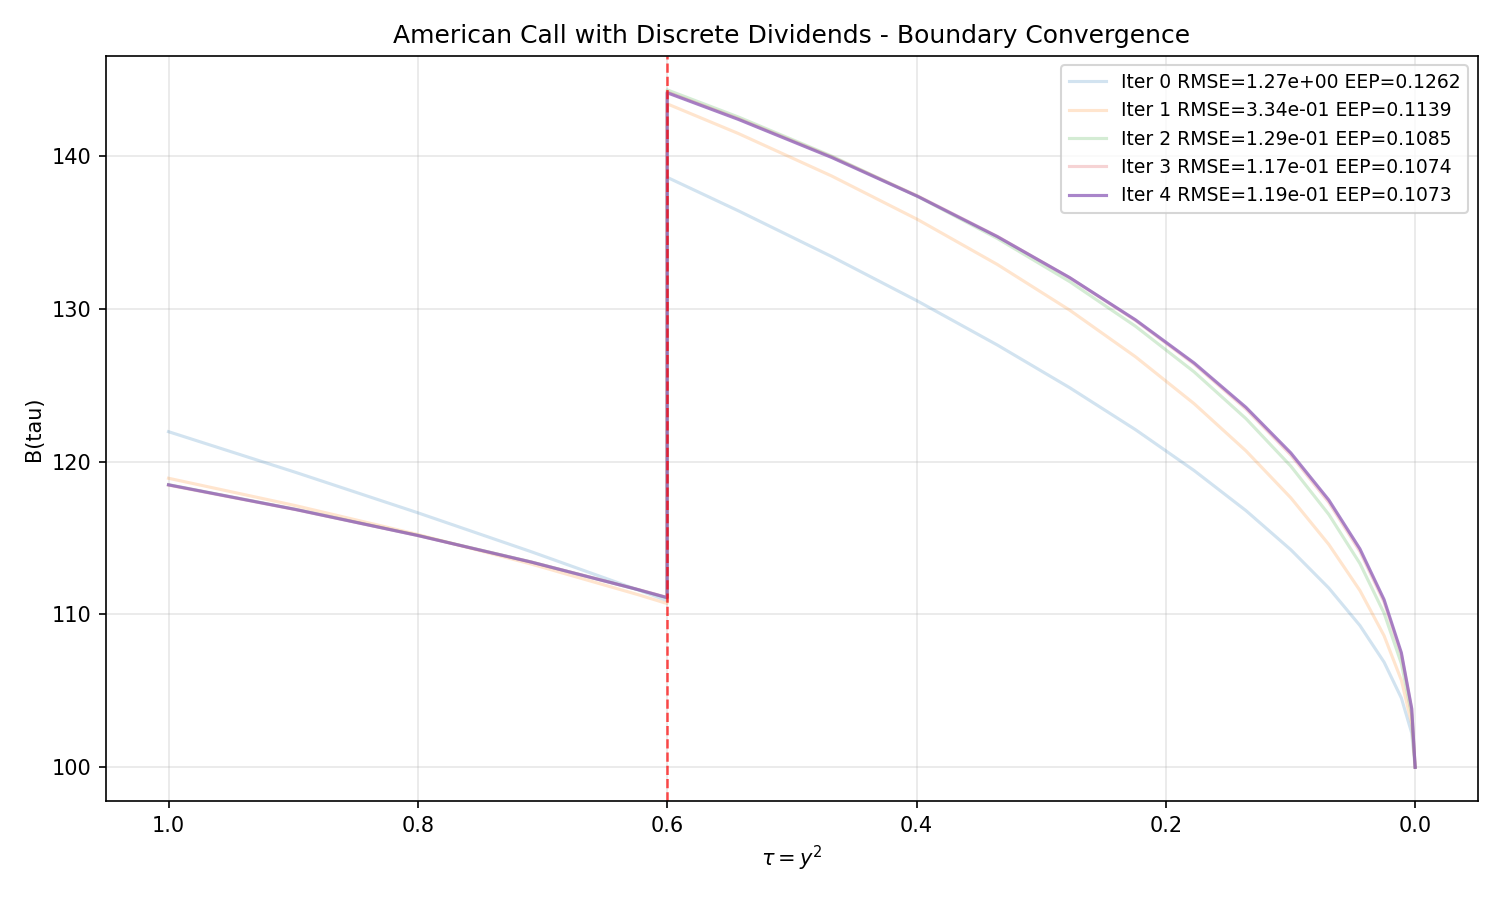
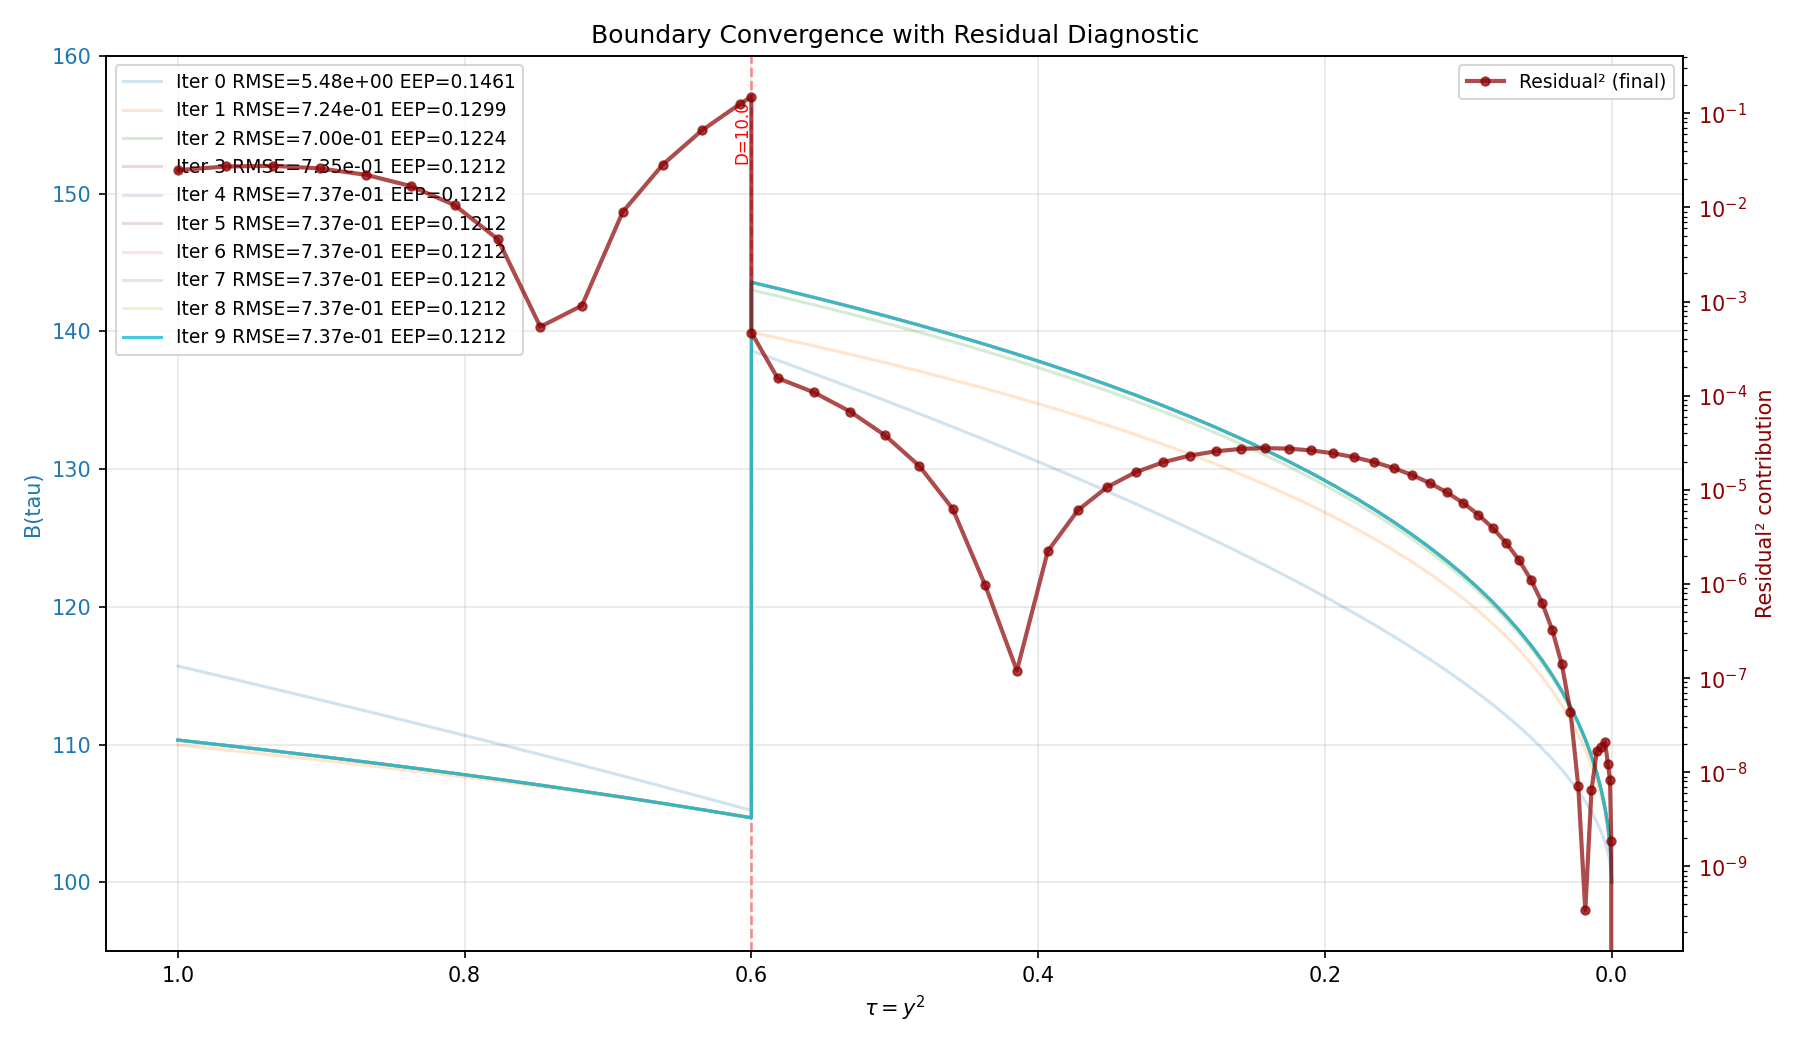
Add residual diagnostic overlay showing error concentration
New features:
- Dual-axis plot: boundary (left) + residual (right, log scale)
- Print top 10 residual contributions with locations
- Regional RMSE analysis: before vs after each dividend
- Compute residual jump ratio across dividend knots
- Suggest improvements when large post-dividend errors detected

Key findings from diagnostics:
- Residual jumps 17.9x across dividend knot
- RMSE is 37.7x worse after dividend vs before
- Top errors cluster immediately after dividends (not at expiry as initially thought)
- Supports hypothesis: need more flexible basis after dividends

Fixed bug: _last_residual_details was stale after Jacobian test.
Now recompute residuals fresh from final solved boundary for accurate diagnostics.

Suggestion printed when RMSE > 1e-3:
'Consider y*(y>y_d) terms for each dividend time y_d to allow
 boundary slope to adjust post-dividend.'

diff --git a/kim_integral_rbf.py b/kim_integral_rbf.py
@@ -785,14 +785,14 @@ if __name__ == "__main__":
     matplotlib.use("Agg")
     import matplotlib.pyplot as plt
 
-    N=20  # Finer grid to better resolve dividend transitions
-    max_iters = 5
-    n_powers = 3
+    N=60  # Finer grid to better resolve dividend transitions
+    max_iters = 10
+    n_powers = 1
     do_call = True
 
     no_divs = False
     div_times = [] if no_divs else [0.4]
-    div_amounts = [] if no_divs else [5.0]
+    div_amounts = [] if no_divs else [10.0]
     r=0.05
     q=0.05
     sigma=0.25
@@ -880,23 +880,125 @@ if __name__ == "__main__":
     print(f"  Max error  : {jac_test_div['max_error']:.6e}")
     print(f"  Mean error : {jac_test_div['mean_error']:.6e}")
 
-    # ---- Convergence plot ----
-    fig, ax = plt.subplots(1, 1, figsize=(10, 6))
+    # ---- Convergence plot with residual overlay ----
+    fig, ax1 = plt.subplots(1, 1, figsize=(12, 7))
 
+    # Plot boundary convergence on left axis
     for label, (B, rmse, eep) in res_div["history"].items():
         alpha = 0.8 if label==list(res_div["history"].keys())[-1] else 0.2
-        ax.plot(pricer_div.y ** 2, B, label=f"{label} RMSE={rmse:.2e} EEP={eep:.4f}", alpha=alpha)
+        ax1.plot(pricer_div.y ** 2, B, label=f"{label} RMSE={rmse:.2e} EEP={eep:.4f}", alpha=alpha)
 
-    # Mark dividend times
-    for t_d, D in pricer_div.div_schedule:
-        ax.axvline(pricer_div.T - t_d, color="red", ls="--", lw=1.2, alpha=0.7)
+    ax1.set_xlabel(r"$\tau = y^2$")
+    ax1.set_ylabel("B(tau)", color='C0')
+    ax1.tick_params(axis='y', labelcolor='C0')
+    ax1.set_ylim(95, 160)
+    ax1.invert_xaxis()
+    ax1.legend(loc='upper left', ncol=1, fontsize=9)
+    ax1.grid(alpha=0.3)
     
-    ax.set_title(f"American Call with Discrete Dividends - Boundary Convergence")
-    ax.set_xlabel(r"$\tau = y^2$")
-    ax.set_ylabel("B(tau)")
-    ax.invert_xaxis()
-    ax.legend(ncol=1, fontsize=9)
-    ax.grid(alpha=0.3)
+    # Compute final residual at each knot from the solved boundary
+    # Note: Must recompute because _last_residual_details may be stale after Jacobian test
+    B_final_boundary = res_div["boundary"]["B"].values
+    log_BK = np.log(B_final_boundary[1:] / pricer_div.K)
+    residual_final, _ = pricer_div.get_residual_and_jac(log_BK)
+    # Reconstruct full residual vector (including B0 which has residual=0 by construction)
+    residual_full = np.concatenate([[0.0], residual_final])
+    
+    # Also get details for plotting
+    details = pricer_div._last_residual_details
+    B_final = details['B']
+    
+    # Squared residual contribution (pointwise)
+    residual_sq = residual_full**2
+    
+    # Print diagnostic: where are the largest residuals?
+    print()
+    print("=" * 60)
+    print("Final Residual Analysis")
+    print("=" * 60)
+    top_n = 10
+    top_indices = np.argsort(residual_sq)[-top_n:][::-1]
+    print(f"Top {top_n} residual² contributions:")
+    print(f"  {'Index':<8} {'tau':<12} {'B(tau)':<12} {'|residual|':<14} {'residual²':<14}")
+    for idx in top_indices:
+        tau_val = details['tau'][idx]
+        B_val = B_final[idx]
+        res_val = residual_full[idx]
+        res_sq_val = residual_sq[idx]
+        # Check if near dividend
+        near_div = ""
+        for t_d, D in pricer_div.div_schedule:
+            if abs(tau_val - (pricer_div.T - t_d)) < 0.05:
+                near_div = f" ← near D={D} at t={t_d}"
+                break
+        print(f"  {idx:<8} {tau_val:<12.6f} {B_val:<12.4f} {abs(res_val):<14.6e} {res_sq_val:<14.6e}{near_div}")
+    
+    # Regional RMSE analysis
+    if pricer_div.div_schedule:
+        print()
+        print("Residual by region:")
+        for t_d, D in pricer_div.div_schedule:
+            tau_d = pricer_div.T - t_d
+            idx_div = np.argmin(np.abs(details['tau'] - tau_d))
+            
+            # Exclude B0 (index 0) from all analyses
+            mask_before = details['tau'][1:] < tau_d
+            mask_after = (details['tau'][1:] >= tau_d) & (details['tau'][1:] < 0.95)
+            
+            if np.any(mask_before):
+                rmse_before = np.sqrt(np.mean(residual_full[1:][mask_before]**2))
+            else:
+                rmse_before = 0
+            
+            if np.any(mask_after):
+                rmse_after = np.sqrt(np.mean(residual_full[1:][mask_after]**2))
+            else:
+                rmse_after = 0
+            
+            print(f"  Dividend D={D} at tau={tau_d:.4f}:")
+            print(f"    Before: RMSE = {rmse_before:.6e}")
+            print(f"    After:  RMSE = {rmse_after:.6e}")
+            if rmse_before > 0:
+                print(f"    Ratio:  {rmse_after/rmse_before:.1f}x worse after dividend")
+            
+            # Show jump across dividend (compare knots immediately before/after)
+            if 0 < idx_div < len(residual_full)-1:
+                res_before = abs(residual_full[idx_div])
+                res_after = abs(residual_full[idx_div+1])
+                if res_before > 1e-10:
+                    jump = res_after / res_before
+                    print(f"    |Residual| jump at knot {idx_div}→{idx_div+1}: {jump:.1f}x")
+    
+    total_rmse = np.sqrt(np.mean(residual_sq[1:]))  # Exclude B0
+    print(f"\nTotal RMSE: {total_rmse:.6e}")
+    print(f"Max |residual|: {np.max(np.abs(residual_full[1:])):.6e}")
+    
+    # Suggestion for improvement
+    if pricer_div.div_schedule and total_rmse > 1e-3:
+        print()
+        print("NOTE: Large residuals after dividends suggest adding more flexible basis:")
+        print("      Consider y*(y>y_d) terms for each dividend time y_d to allow")
+        print("      boundary slope to adjust post-dividend.")
+    print()
+    
+    # Overlay residual contribution on right axis
+    ax2 = ax1.twinx()
+    ax2.plot(pricer_div.y ** 2, residual_sq, 'o-', color='darkred', 
+             linewidth=2, markersize=4, alpha=0.7, label='Residual² (final)')
+    ax2.set_ylabel('Residual² contribution', color='darkred')
+    ax2.tick_params(axis='y', labelcolor='darkred')
+    ax2.set_yscale('log')
+    ax2.legend(loc='upper right', fontsize=9)
+    
+    # Mark dividend times on both axes
+    for t_d, D in pricer_div.div_schedule:
+        tau_d = pricer_div.T - t_d
+        ax1.axvline(tau_d, color="red", ls="--", lw=1.2, alpha=0.5, zorder=0)
+        # Annotate dividend
+        ax1.text(tau_d, ax1.get_ylim()[1]*0.98, f'D={D}', 
+                ha='right', va='top', fontsize=8, color='red', rotation=90)
+    
+    ax1.set_title(f"Boundary Convergence with Residual Diagnostic")
 
     plt.tight_layout()
     plt.savefig(f"kim_integral_rbf_convergence{'_no_divs' if no_divs else '_divs'}.png", dpi=150)

diff --git a/debug_jump.py b/debug_jump.py
@@ -1,0 +1,26 @@
+import numpy as np
+from kim_integral_rbf import KimIntegralRBF
+
+pricer = KimIntegralRBF(K=100, T=1.0, r=0.05, q=0.05, sigma=0.25, w=+1, N=60, n_powers=1,
+                        div_times=[0.4], div_amounts=[10.0])
+res = pricer.price(S0=100, max_iters=10, verbose_diagnostics=False)
+
+# Get residuals
+details = pricer._last_residual_details
+B_final = details['B']
+euro_final = details['euro_p']
+eep_final = details['eep']
+residual_full = pricer.w * (B_final - pricer.K) - (euro_final + eep_final)
+
+tau_d = 1.0 - 0.4
+idx_div = np.argmin(np.abs(details['tau'] - tau_d))
+
+print(f'tau_d = {tau_d}')
+print(f'idx_div = {idx_div}')
+print(f'tau[{idx_div}] = {details["tau"][idx_div]}')
+print(f'tau[{idx_div+1}] = {details["tau"][idx_div+1]}')
+print(f'residual_full[{idx_div}] = {residual_full[idx_div]}')
+print(f'residual_full[{idx_div+1}] = {residual_full[idx_div+1]}')
+print(f'abs(residual_full[{idx_div}]) = {abs(residual_full[idx_div])}')
+print(f'abs(residual_full[{idx_div+1}]) = {abs(residual_full[idx_div+1])}')
+print(f'jump = {abs(residual_full[idx_div+1]) / abs(residual_full[idx_div])}')
